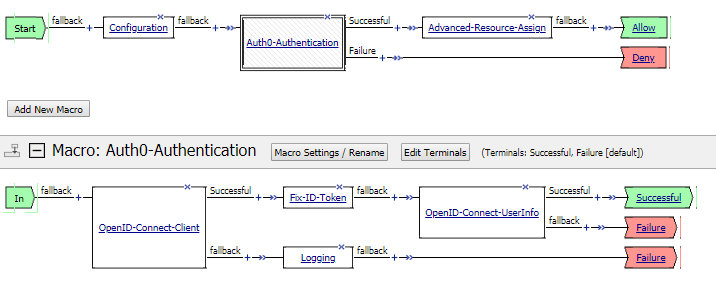
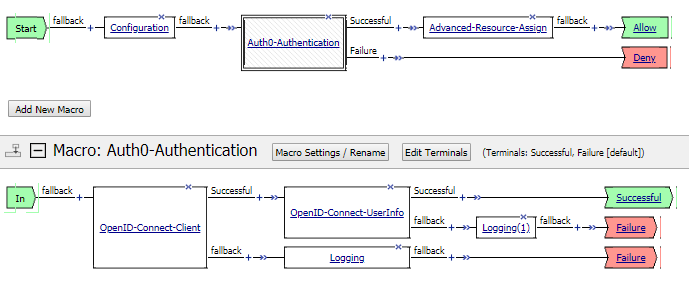
Update README.md, oauth_token_external_validation_to_get_openid_connect_userinfo.png, and simple_policy_flow.png

diff --git a/README.md b/README.md
@@ -36,8 +36,9 @@ The workaround described in Bug ID 685888 does not appear to work in this case a
 To get the OpenID Connect UserInfo request to work you need to use the following in sequence:
 1. OAuth Client macro, OpenID Connect enabled but
 OpenID Connect UserInfo Request set to None
-2. iRule event to call your iRule which will fix up the session.oauth.client.last.id_token.sub etc
-3. OAuth Scope macro, set to External, you can leave the Scopes Request as None and only define the OpenID Connect UserInfo Request
+2. OAuth Scope macro, set to External, you can leave the Scopes Request as None and only define the OpenID Connect UserInfo Request; or use a duplicate of the OpenID Connect UserInfo request as a scope validation request in conjunction with the OpenID Connect UserInfo request
+
+In the OAuth Scope macro it appears as though BIGIP doesn't actually do any comparison of the subject back against a prior ID token subject; hence no further issue with comparison of escaped and non-escaped strings.
 
 Basically looks like this,
 
@@ -46,6 +47,21 @@ Basically looks like this,
 ![OAuth Client Item](https://github.com/colin-stubbs/f5-bigip-auth0-integration/blob/master/screenshots/oauth_client_config_for_openid_connect.png "OAuth Client Item")
 
 ![UserInfo Request](https://github.com/colin-stubbs/f5-bigip-auth0-integration/blob/master/screenshots/oauth_token_external_validation_to_get_openid_connect_userinfo.png "OAuth OpenID Connect UserInfo Request")
+
+Session variables are still backslash escaped.
+
+```
+l  3 02:03:26 bigip1 info apmd[5447]: 01490007:6: /Common/webtop.lab.routedlogic.net:Common:facc2f47: Session variable 'session.oauth.scope.last.UserInfo.email' set to 'cstubbs@gmail.com'
+Jul  3 02:03:26 bigip1 info apmd[5447]: 01490007:6: /Common/webtop.lab.routedlogic.net:Common:facc2f47: Session variable 'session.oauth.scope.last.UserInfo.email_verified' set to 'true'
+Jul  3 02:03:26 bigip1 info apmd[5447]: 01490007:6: /Common/webtop.lab.routedlogic.net:Common:facc2f47: Session variable 'session.oauth.scope.last.UserInfo.name' set to 'cstubbs@gmail.com'
+Jul  3 02:03:26 bigip1 info apmd[5447]: 01490007:6: /Common/webtop.lab.routedlogic.net:Common:facc2f47: Session variable 'session.oauth.scope.last.UserInfo.nickname' set to 'cstubbs'
+Jul  3 02:03:26 bigip1 info apmd[5447]: 01490007:6: /Common/webtop.lab.routedlogic.net:Common:facc2f47: Session variable 'session.oauth.scope.last.UserInfo.picture' set to 'https:\\/\\/s.gravatar.com\\/avatar\\/a17f567a5f1cc701585e3484c2bb2e40?s=480&r=pg&d=https%3A%2F%2Fcdn.auth0.com%2Favatars%2Fcs.png'
+Jul  3 02:03:26 bigip1 info apmd[5447]: 01490007:6: /Common/webtop.lab.routedlogic.net:Common:facc2f47: Session variable 'session.oauth.scope.last.UserInfo.sub' set to 'auth0\|5b31da4b7871d50de046a068'
+Jul  3 02:03:26 bigip1 info apmd[5447]: 01490007:6: /Common/webtop.lab.routedlogic.net:Common:facc2f47: Session variable 'session.oauth.scope.last.UserInfo.updated_at' set to '2018-07-02T16:03:24.168Z'
+Jul  3 02:03:26 bigip1 info apmd[5447]: 01490007:6: /Common/webtop.lab.routedlogic.net:Common:facc2f47: Session variable 'session.oauth.scope.last.authresult' set to '1'
+Jul  3 02:03:26 bigip1 info apmd[5447]: 01490007:6: /Common/webtop.lab.routedlogic.net:Common:facc2f47: Session variable 'session.oauth.scope.last.errMsg' set to ''
+Jul  3 02:03:26 bigip1 info apmd[5447]: 01490007:6: /Common/webtop.lab.routedlogic.net:Common:facc2f47: Session variable 'session.policy.result' set to 'allow'
+```
 
 ### Example Log Entry
 
